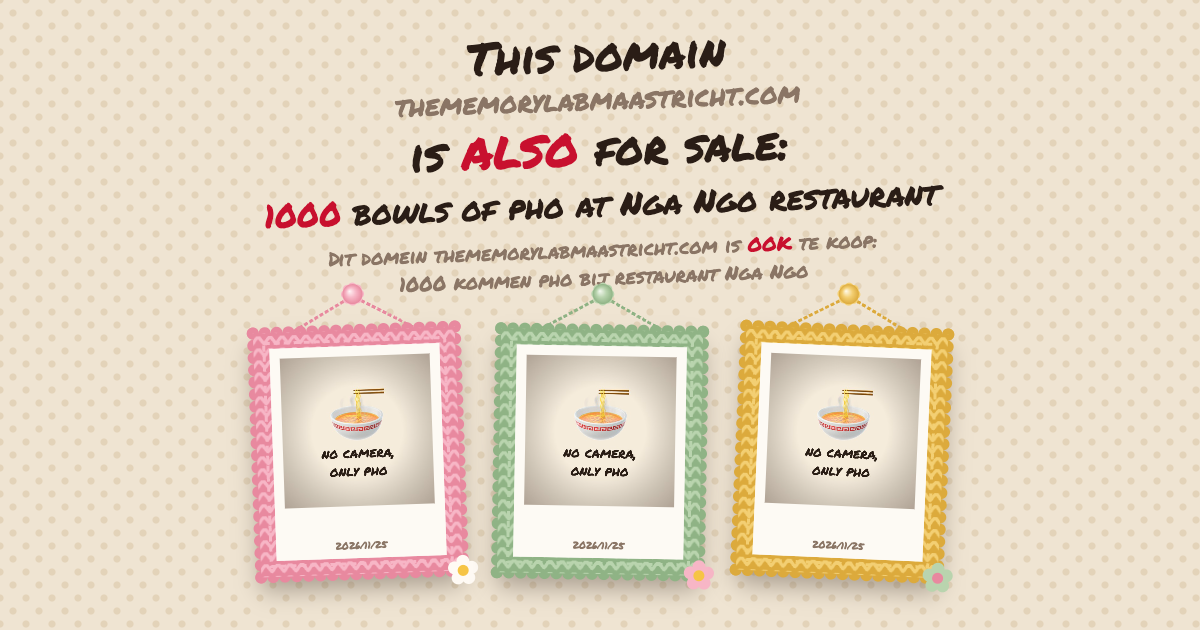
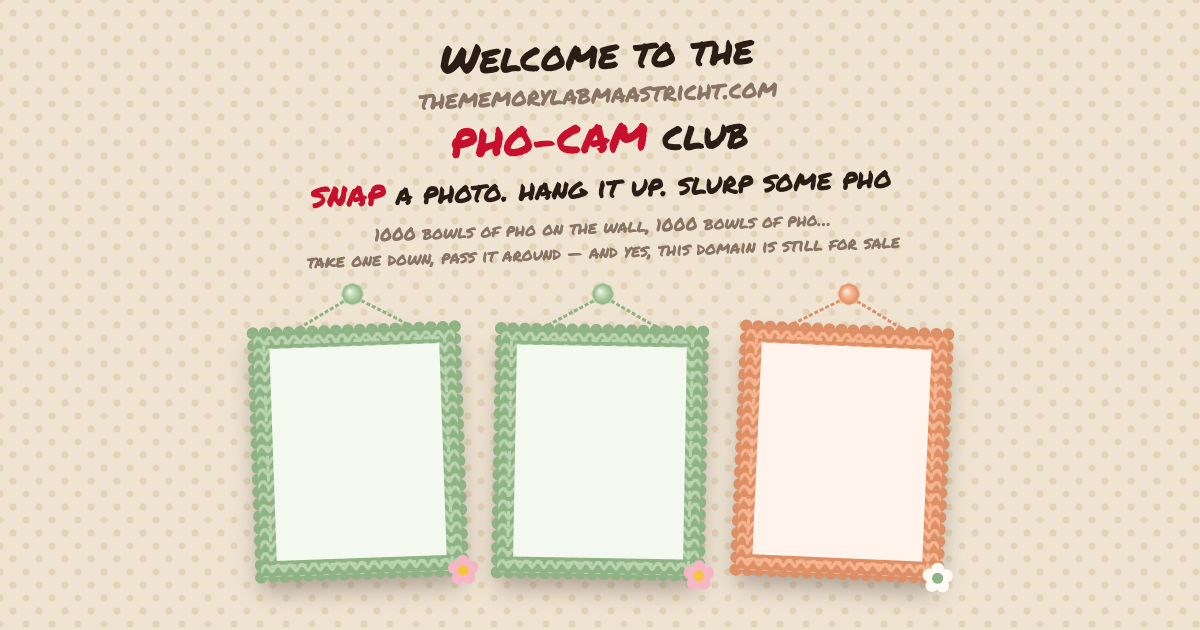
Swap the sale pitch for a pho-cam club welcome
Playful headline and a 1000-bowls-of-pho-on-the-wall jingle, with a small
note that the domain is still for sale. og.png regenerated to match.

diff --git a/index.html b/index.html
@@ -1019,9 +1019,9 @@
 
   <main class="desk" id="desk">
     <div class="sale">
-      <h1>This domain <span class="domain">thememorylabmaastricht.com</span> is <em>ALSO</em> for sale:</h1>
-      <p class="price"><strong>1000</strong> bowls of pho at Nga Ngo restaurant</p>
-      <p class="dutch" lang="nl">Dit domein <span class="nowrap">thememorylabmaastricht.com</span> is <em>OOK</em> te koop:<br>1000 kommen pho bij restaurant Nga Ngo</p>
+      <h1>Welcome to the <span class="domain">thememorylabmaastricht.com</span> <em>PHO-CAM</em> club</h1>
+      <p class="price"><strong>SNAP</strong> a photo. hang it up. slurp some pho</p>
+      <p class="dutch">1000 bowls of pho on the wall, 1000 bowls of pho…<br>take one down, pass it around — and yes, this domain is still for sale</p>
     </div>
     <div class="wall">
       <div class="frame">
